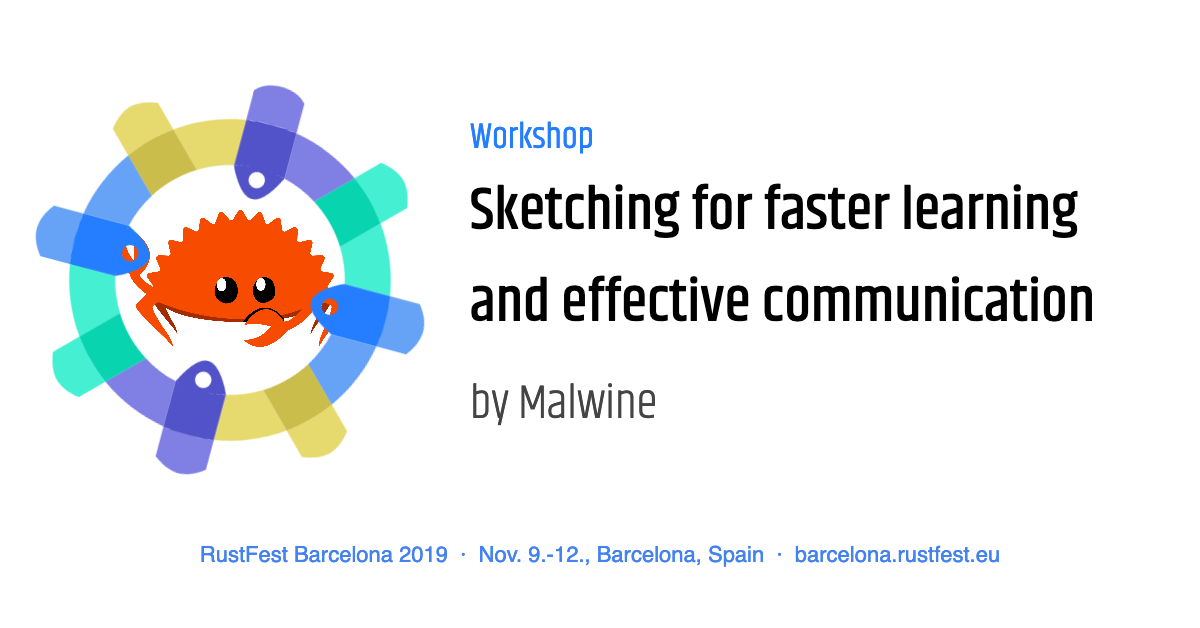
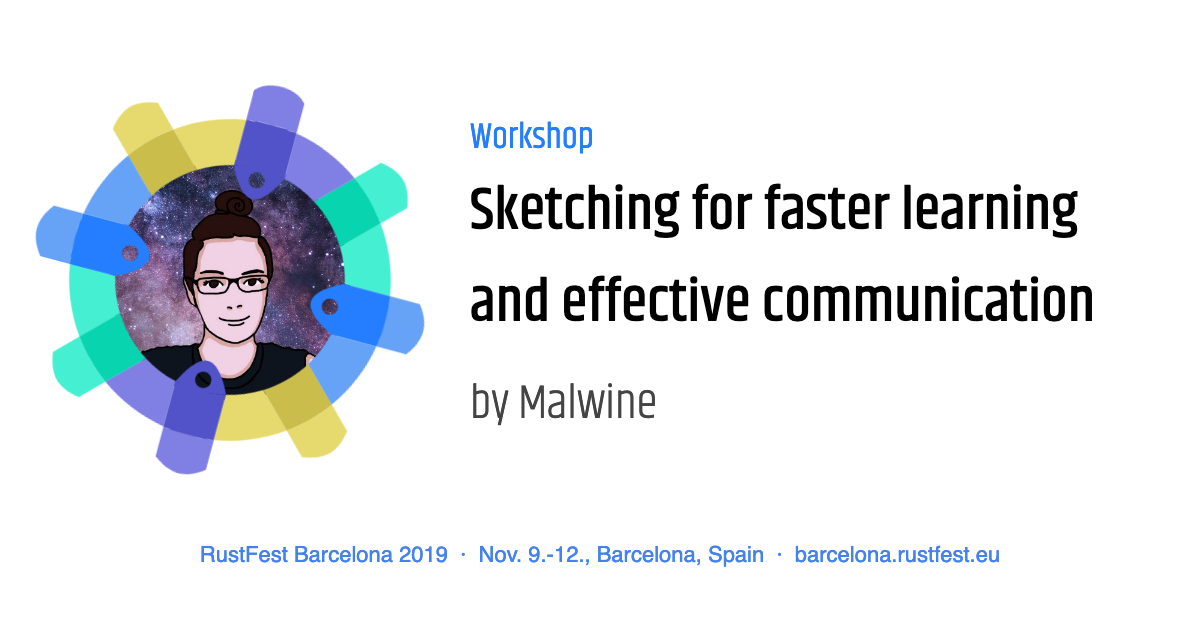
Update Malwine's details & workshop

Changed region(s): [[0.0925, 0.242, 0.3083, 0.6354]]

diff --git a/_layouts/meta-twitter-card-generator.html b/_layouts/meta-twitter-card-generator.html
@@ -307,7 +307,7 @@
         ["ferris.png", "Wundergraph or How to build a compile time GraphQL ORM using Diesel", "Workshop", "by Georg Semmler"],
         ["skade.png", "async/await with async-std", "Talk", "by Florian Gilcher"],
         ["zeenix.jpg", "zbus: Yet another D-Bus library", "Talk", "by Zeeshan Ali"],
-        ["ferris.png", "Sketching for faster learning and effective communication", "Workshop", "by Malwine"],
+        ["malwine.jpg", "Sketching for faster learning and effective communication", "Workshop", "by Malwine"],
         ["ferris.png", "Bring your own Topic", "Workshop", "Lightning talks & demos"],
     ];
     var card = document.querySelector('.card.single');

diff --git a/_sessions/sketchnoting.md b/_sessions/sketchnoting.md
@@ -8,14 +8,15 @@ speakers:
 
 title: Sketching for faster learning and effective communication
 desc: |
-    Ever seen sketchnotes at a conference, and wished you could communicate as clearly, and quickly?
+    Ever seen sketchnotes (visual notes of technical content) at a conference,
+    and wished you could communicate as clearly, and quickly?
 
     We’ll let you in on a secret - drawing is a teachable skill, just like writing code is.
 
-    We’ll start this workshop with introductory exercises we’ve refined at conference workshops this year,
-    to help you build some confidence.
+    We’ll start this workshop with fun introductory exercises we’ve refined at conference workshops this year,
+    to help you build some confidence. Materials will be provided.
 
-    Next we’ll show you how you can use these techniques to help with discussions around system design and software architecture,
+    Next we’ll show you how you can use visual techniques to help with discussions in daily work situations,
     summarise subjects you’re learning, or capture the key ideas from talks.
 
     You’ll leave with new confidence and skills you can use the same day!
